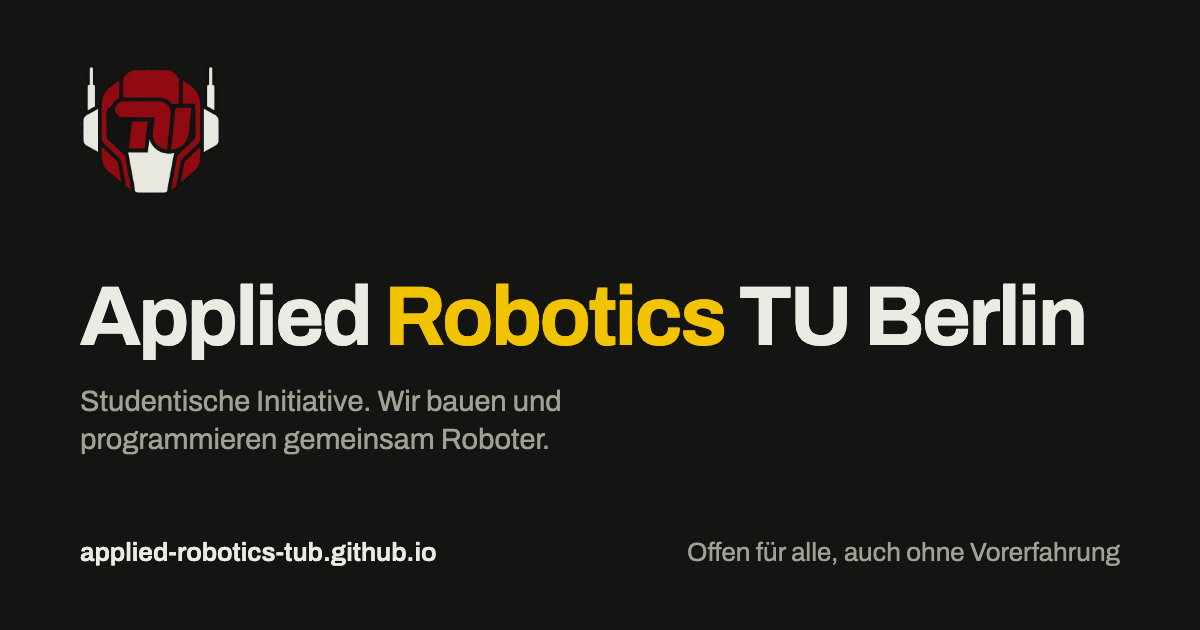
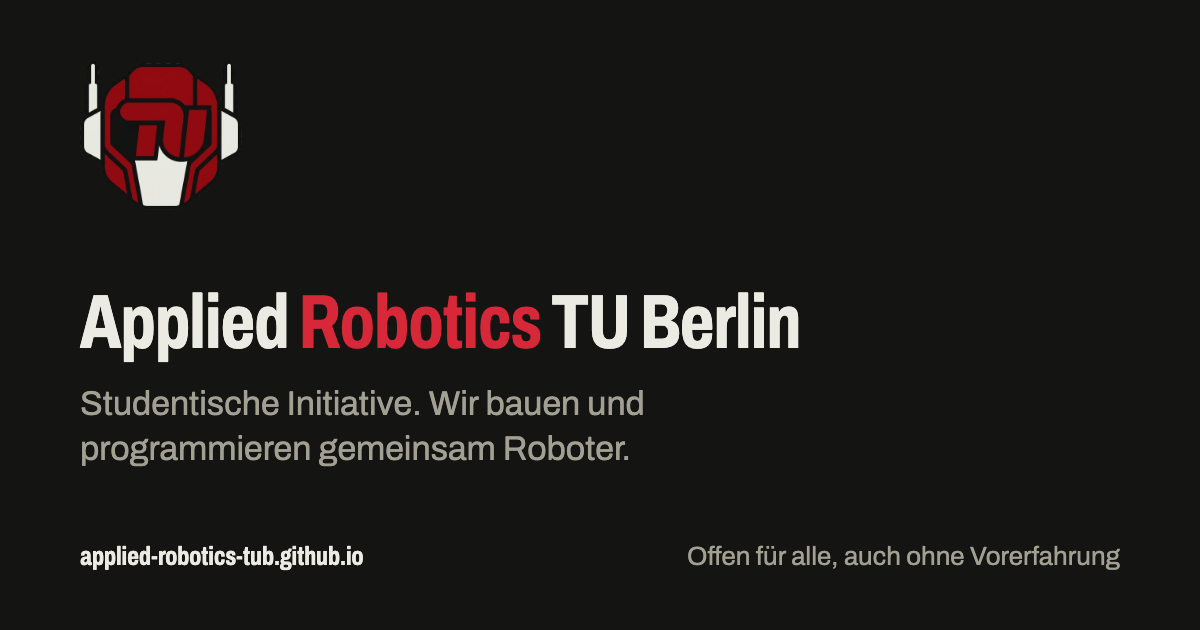
Signalfarbe von Gelb auf Rot umstellen

diff --git a/assets/bilder/vorschau-quelle.html b/assets/bilder/vorschau-quelle.html
@@ -1,0 +1,21 @@
+<!-- Quelle fuer vorschau.png (1200x630). Mit Chrome headless rendern:
+     chrome --headless --screenshot=vorschau.png --window-size=1200,630 vorschau-quelle.html -->
+<!doctype html><html lang="de"><head><meta charset="utf-8">
+<style>
+@font-face{font-family:"Archivo";src:url("../fonts/archivo-variabel.woff2") format("woff2");font-weight:100 900;font-stretch:62% 125%;}
+*{margin:0;box-sizing:border-box}
+body{width:1200px;height:630px;background:#141412;color:#ebeae3;font-family:"Archivo",Arial,sans-serif;
+     padding:60px 80px;display:flex;flex-direction:column;justify-content:space-between}
+img{height:150px;width:auto;flex:none;align-self:flex-start}
+h1{font-size:76px;font-stretch:72%;font-weight:700;letter-spacing:-.01em}
+h1 span{color:#d62839}
+p.sub{font-size:34px;color:#a29f93;margin-top:18px;max-width:700px;line-height:1.3}
+footer{display:flex;justify-content:space-between;align-items:baseline;font-size:26px}
+footer .url{font-weight:700;font-stretch:72%}
+footer .claim{color:#a29f93}
+</style></head><body>
+<img src="../logo/logo.png" alt="">
+<div><h1>Applied <span>Robotics</span> TU Berlin</h1>
+<p class="sub">Studentische Initiative. Wir bauen und programmieren gemeinsam Roboter.</p></div>
+<footer><span class="url">applied-robotics-tub.github.io</span><span class="claim">Offen für alle, auch ohne Vorerfahrung</span></footer>
+</body></html>

diff --git a/assets/css/style.css b/assets/css/style.css
@@ -21,8 +21,8 @@
   --linie: #33322c;
   --text: #ebeae3;
   --text-leise: #a29f93;
-  --signal: #f2c300;
-  --auf-signal: #171611;
+  --signal: #d62839;
+  --auf-signal: #ffffff;
   --ph: #ff7a93;
   --ph-hg: rgba(255, 122, 147, .1);
 

diff --git a/DESIGN.md b/DESIGN.md
@@ -7,9 +7,9 @@ Stand: umgesetzt am 08.11.2026.
 Die Seite ist eine Werkstattseite, keine Landingpage. Vorbilder sind das
 Datenblatt eines Bauteils und die Beschriftung an einer Industriemaschine:
 eine schmale Spalte mit Bezeichnungen links, Inhalte rechts davon,
-Haarlinien statt Kästen, eine einzige Signalfarbe. Robotergelb kennt man von
-Industrierobotern, Warnmarkierungen und Not-Halt-Gehäusen. Es ist die einzige
-Farbe auf der Seite, alles andere ist Graphit.
+Haarlinien statt Kästen, eine einzige Signalfarbe. Das Signalrot nimmt das
+Rot des Logos auf und kennt man von Not-Halt-Schaltern und Warnmarkierungen.
+Es ist die einzige Farbe auf der Seite, alles andere ist Graphit.
 
 Dunkel ist das Standard-Design. Hell bleibt als umschaltbare Variante.
 
@@ -22,12 +22,17 @@ Dunkel ist das Standard-Design. Hell bleibt als umschaltbare Variante.
 | Linie               | `#33322c`         | `#cfcdc3` | Haarlinien zwischen Zeilen und Abschnitten |
 | Text                | `#ebeae3`         | `#171611` | Fließtext und Überschriften |
 | Text leise          | `#a29f93`         | `#5a584e` | Bezeichnungen, Metadaten |
-| Signal (Akzent)     | `#f2c300`         | `#f2c300` | nur Primär-Knopf, Fokusrahmen, Linkunterstreichung, aktiver Menüpunkt |
+| Signal (Akzent)     | `#d62839`         | `#d62839` | nur Primär-Knopf, Fokusrahmen, Linkunterstreichung, aktiver Menüpunkt |
 | Platzhalter         | `#ff7a93`         | `#b0123a` | gestrichelte Markierung fehlender Inhalte (verschwindet mit den Inhalten) |
 
-Gelb wird nie als Textfarbe auf hellem Grund verwendet. Links sind
-textfarben mit gelber Unterstreichung, so funktionieren sie in beiden Modi.
-Text auf Gelb ist immer `#171611`.
+Das Signalrot nimmt das Rot des Logos auf, ist aber aufgehellt: Das
+Logo-Rot `#A90C18` hat auf dem dunklen Hintergrund nur 2,4:1 Kontrast und
+wäre als Unterstreichung kaum zu erkennen. `#d62839` kommt auf 3,7:1 gegen
+den Hintergrund und trägt weißen Text mit 5,0:1.
+
+Rot wird nie als Textfarbe verwendet. Links sind textfarben mit roter
+Unterstreichung, so funktionieren sie in beiden Modi. Text auf Rot ist
+immer Weiß.
 
 ## Schrift
 
@@ -104,7 +109,7 @@ Bei `prefers-reduced-motion` gar keine.
 
 Die drei generischsten Stellen nach dem ersten Durchgang und was geändert wurde:
 
-1. **Abschluss-Block „Vorbeikommen“ mit zweitem gelbem Knopf** am Ende der
+1. **Abschluss-Block „Vorbeikommen“ mit zweitem Signalknopf** am Ende der
    Startseite – das klassische Landingpage-Schlussbanner. Entfernt; der
    Mail-Link steht jetzt als Textlink direkt unter dem nächsten Termin, wo die
    Frage „wie komme ich hin?“ tatsächlich entsteht.

diff --git a/README.md b/README.md
@@ -28,7 +28,7 @@ assets/js/seite.js    Farbschema, vergangene Termine ausblenden, Mail kopieren
 
 Seiteninhalte stehen im Front Matter bzw. Markdown-Teil der Seiten, die
 Layouts enthalten keine Texte. Fehlende Inhalte beginnen mit `PLATZHALTER`
-und werden automatisch gelb markiert (`_includes/text.html` für
+und werden automatisch rosa markiert (`_includes/text.html` für
 Datenfelder, `{: .platzhalter}` für Absätze in Markdown).
 
 ## Veröffentlichen

diff --git a/ANLEITUNG.md b/ANLEITUNG.md
@@ -87,7 +87,7 @@ und die Person einverstanden ist, dass ihr Name online steht.
 
 ## Platzhalter
 
-Alles, was noch fehlt, ist auf der Seite **gelb hinterlegt** und beginnt mit
+Alles, was noch fehlt, ist auf der Seite **rosa hinterlegt** und beginnt mit
 `PLATZHALTER`. In Fließtexten steht darunter die Zeile `{: .platzhalter}` –
 die beim Ausfüllen mit löschen.
 
